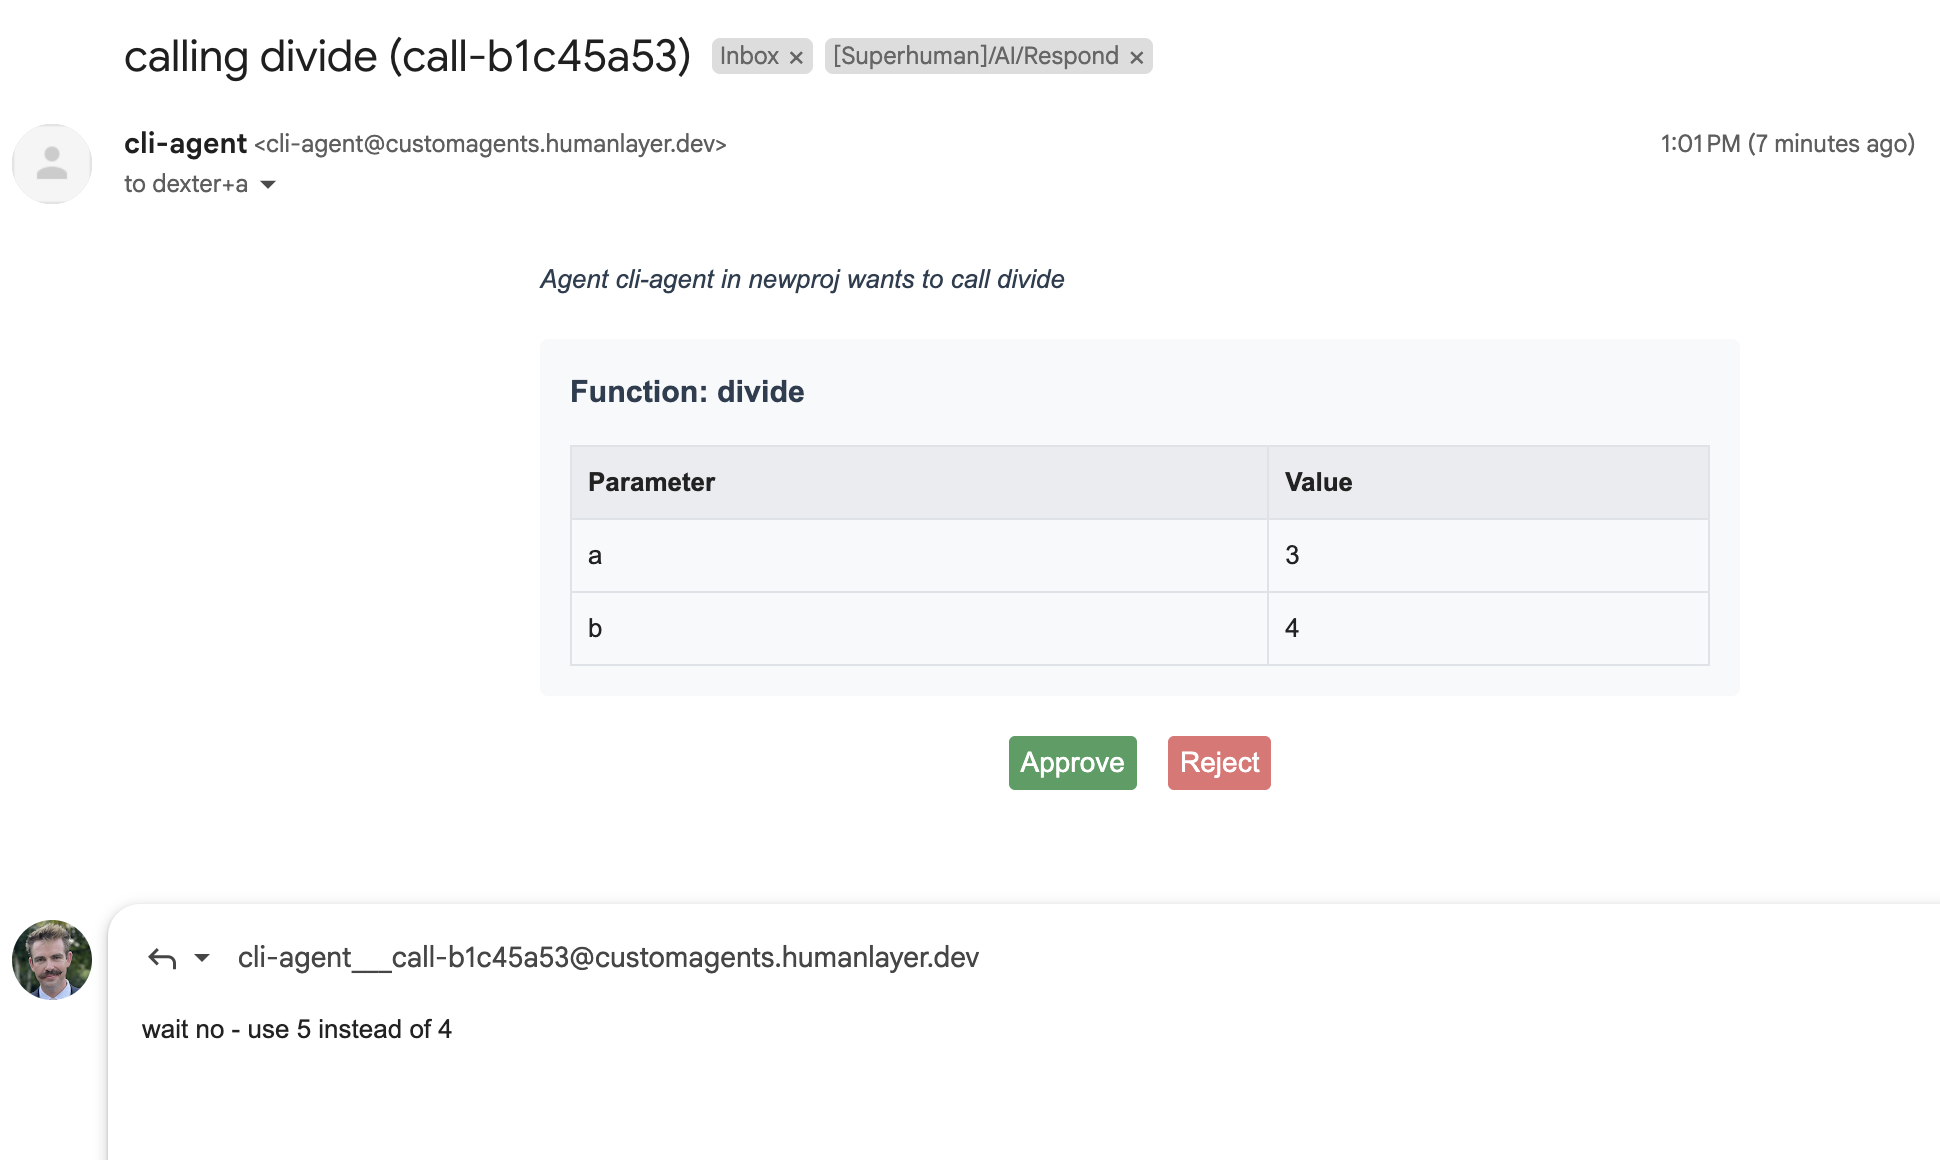
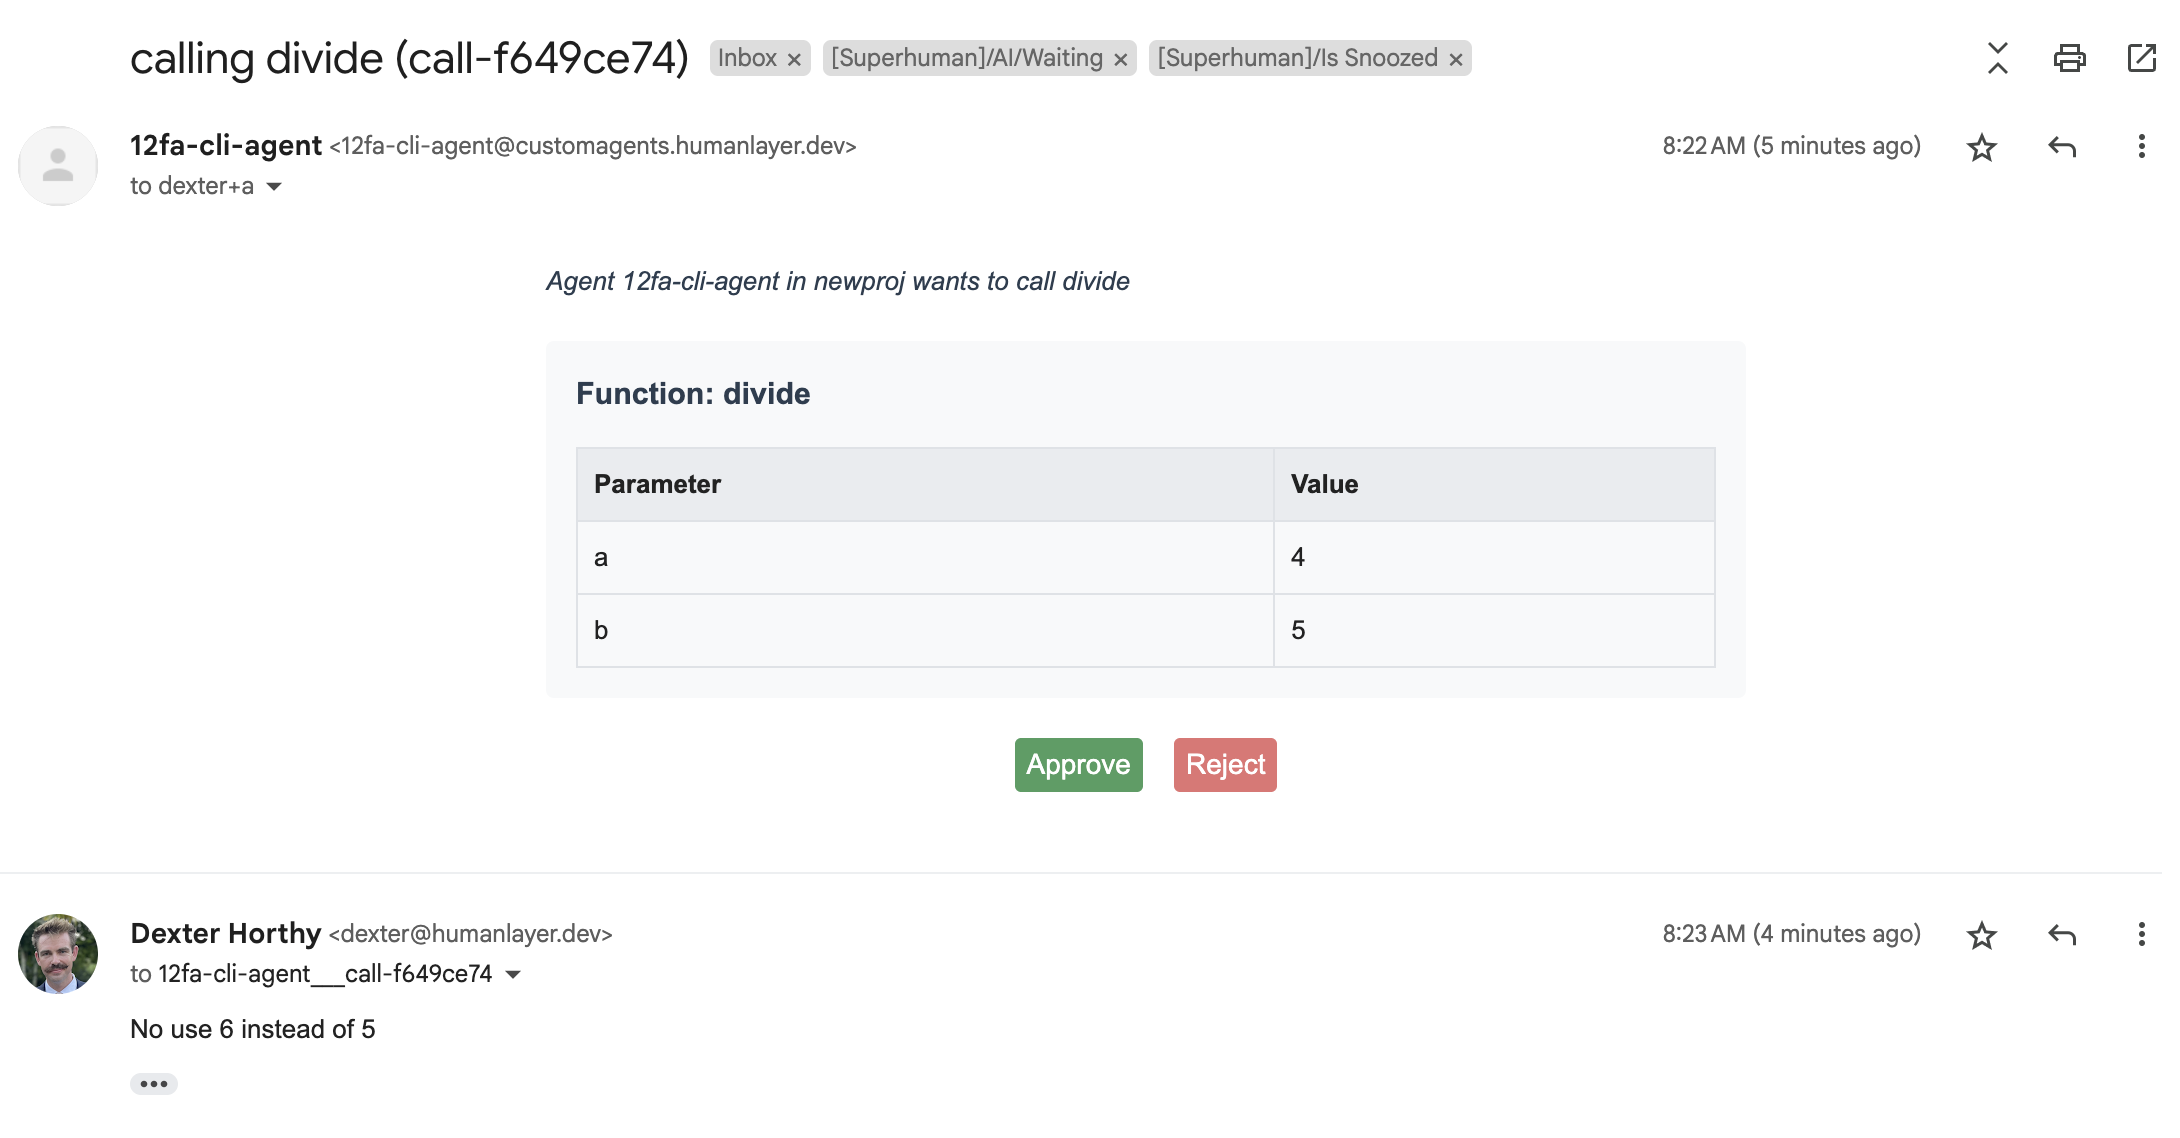
updates to some things

diff --git a/workshops/2025-05/sections/11-humanlayer-approval/src/cli.ts b/workshops/2025-05/sections/11-humanlayer-approval/src/cli.ts
@@ -1,8 +1,7 @@
 // cli.ts lets you invoke the agent loop from the command line
 
+import { humanlayer } from "humanlayer";
 import { agentLoop, Thread, Event } from "../src/agent";
-
-
 
 export async function cli() {
     // Get command line arguments, skipping the first two (node and script name)
@@ -20,23 +19,31 @@ export async function cli() {
     const thread = new Thread([{ type: "user_input", data: message }]);
 
     // Run the agent loop with the thread
-    const result = await agentLoop(thread);
-    let lastEvent = result.events.slice(-1)[0];
+    let newThread = await agentLoop(thread);
+    let lastEvent = newThread.events.slice(-1)[0];
 
-    while (lastEvent.data.intent === "request_more_information") {
-        const message = await askHuman(lastEvent.data.message);
-        thread.events.push({ type: "human_response", data: message });
-        const result = await agentLoop(thread);
-        lastEvent = result.events.slice(-1)[0];
+    while (lastEvent.data.intent !== "done_for_now") {
+        const responseEvent = await askHuman(lastEvent);
+        thread.events.push(responseEvent);
+        newThread = await agentLoop(thread);
+        lastEvent = newThread.events.slice(-1)[0];
     }
 
     // print the final result
-    // optional - you could loop here too
+    // optional - you could loop here too 
     console.log(lastEvent.data.message);
     process.exit(0);
 }
 
-async function askHuman(message: string) {
+async function askHuman(lastEvent: Event): Promise<Event> {
+    if (process.env.HUMANLAYER_API_KEY) {
+        return await askHumanEmail(lastEvent);
+    } else {
+        return await askHumanCLI(lastEvent.data.message);
+    }
+}
+
+async function askHumanCLI(message: string): Promise<Event> {
     const readline = require('readline').createInterface({
         input: process.stdin,
         output: process.stdout
@@ -44,7 +51,66 @@ async function askHuman(message: string) {
 
     return new Promise((resolve) => {
         readline.question(`${message}\n> `, (answer: string) => {
-            resolve(answer);
+            resolve({ type: "human_response", data: answer });
         });
     });
+}
+
+export async function askHumanEmail(lastEvent: Event): Promise<Event> {
+    if (!process.env.HUMANLAYER_EMAIL) {
+        throw new Error("missing or invalid parameters: HUMANLAYER_EMAIL");
+    }
+    const hl = humanlayer({ //reads apiKey from env
+        // name of this agent
+        runId: "12fa-cli-agent",
+        verbose: true,
+        contactChannel: {
+            // agent should request permission via email
+            email: {
+                address: process.env.HUMANLAYER_EMAIL,
+            }
+        }
+    }) 
+
+    if (lastEvent.data.intent === "request_more_information") {
+        // fetch response synchronously - this will block until reply
+        const response = await hl.fetchHumanResponse({
+            spec: {
+                msg: lastEvent.data.message
+            }
+        })
+        return {
+            "type": "tool_response",
+            "data": response
+        }
+    }
+    
+    if (lastEvent.data.intent === "divide") {
+        // fetch approval synchronously - this will block until reply
+        const response = await hl.fetchHumanApproval({
+            spec: {
+                fn: "divide",
+                kwargs: {
+                    a: lastEvent.data.a,
+                    b: lastEvent.data.b
+                }
+            }
+        })
+
+        if (response.approved) {
+            const result = lastEvent.data.a / lastEvent.data.b;
+            console.log("tool_response", result);
+            return {
+                "type": "tool_response",
+                "data": result
+            };
+        } else {
+            return {
+                "type": "tool_response",
+                "data": `user denied operation ${lastEvent.data.intent}
+                with feedback: ${response.comment}`
+            };
+        }
+    }
+    throw new Error(`unknown tool: ${lastEvent.data.intent}`)
 }

diff --git a/workshops/2025-05/walkthrough/11b-cli.ts b/workshops/2025-05/walkthrough/11b-cli.ts
@@ -22,22 +22,15 @@ export async function cli() {
     let newThread = await agentLoop(thread);
     let lastEvent = newThread.events.slice(-1)[0];
 
-    let needsResponse = 
-        newThread.awaitingHumanResponse() ||
-        newThread.awaitingHumanApproval();
-
-    while (needsResponse) {
-        lastEvent = newThread.events.slice(-1)[0];
+    while (lastEvent.data.intent !== "done_for_now") {
         const responseEvent = await askHuman(lastEvent);
         thread.events.push(responseEvent);
         newThread = await agentLoop(thread);
-        // determine if we should loop or if we're done
-        needsResponse = newThread.awaitingHumanResponse() 
-            || newThread.awaitingHumanApproval();
+        lastEvent = newThread.events.slice(-1)[0];
     }
 
     // print the final result
-    // optional - you could loop here too
+    // optional - you could loop here too 
     console.log(lastEvent.data.message);
     process.exit(0);
 }
@@ -63,29 +56,31 @@ async function askHumanCLI(message: string): Promise<Event> {
     });
 }
 
-async function askHumanEmail(lastEvent: Event): Promise<Event> {
+export async function askHumanEmail(lastEvent: Event): Promise<Event> {
     if (!process.env.HUMANLAYER_EMAIL) {
         throw new Error("missing or invalid parameters: HUMANLAYER_EMAIL");
     }
     const hl = humanlayer({ //reads apiKey from env
         // name of this agent
-        runId: "cli-agent",
+        runId: "12fa-cli-agent",
+        verbose: true,
         contactChannel: {
             // agent should request permission via email
             email: {
                 address: process.env.HUMANLAYER_EMAIL,
                 // custom email body - jinja
                 template: `
-                 agent {{ event.run_id }} is requesting approval for {{event.spec.fn}}
-                 with args: {{event.spec.kwargs}}
-                 <br><br>
-                 reply to this email to approve
+                agent {{ event.run_id }} is requesting approval for {{event.spec.fn}}
+                with args: {{event.spec.kwargs}}
+                <br><br>
+                reply to this email to approve
                 `
             }
         }
     }) 
 
     if (lastEvent.data.intent === "request_more_information") {
+        // fetch response synchronously - this will block until reply
         const response = await hl.fetchHumanResponse({
             spec: {
                 msg: lastEvent.data.message
@@ -98,7 +93,7 @@ async function askHumanEmail(lastEvent: Event): Promise<Event> {
     }
     
     if (lastEvent.data.intent === "divide") {
-        // fetch approval synchronously
+        // fetch approval synchronously - this will block until reply
         const response = await hl.fetchHumanApproval({
             spec: {
                 fn: "divide",

diff --git a/workshops/2025-05/walkthrough/11-cli.ts b/workshops/2025-05/walkthrough/11-cli.ts
@@ -22,18 +22,11 @@ export async function cli() {
     let newThread = await agentLoop(thread);
     let lastEvent = newThread.events.slice(-1)[0];
 
-    let needsResponse = 
-        newThread.awaitingHumanResponse() ||
-        newThread.awaitingHumanApproval();
-
-    while (needsResponse) {
-        lastEvent = newThread.events.slice(-1)[0];
+    while (lastEvent.data.intent !== "done_for_now") {
         const responseEvent = await askHuman(lastEvent);
         thread.events.push(responseEvent);
         newThread = await agentLoop(thread);
-        // determine if we should loop or if we're done
-        needsResponse = newThread.awaitingHumanResponse() 
-            || newThread.awaitingHumanApproval();
+        lastEvent = newThread.events.slice(-1)[0];
     }
 
     // print the final result
@@ -69,7 +62,8 @@ export async function askHumanEmail(lastEvent: Event): Promise<Event> {
     }
     const hl = humanlayer({ //reads apiKey from env
         // name of this agent
-        runId: "cli-agent",
+        runId: "12fa-cli-agent",
+        verbose: true,
         contactChannel: {
             // agent should request permission via email
             email: {
@@ -79,6 +73,7 @@ export async function askHumanEmail(lastEvent: Event): Promise<Event> {
     }) 
 
     if (lastEvent.data.intent === "request_more_information") {
+        // fetch response synchronously - this will block until reply
         const response = await hl.fetchHumanResponse({
             spec: {
                 msg: lastEvent.data.message
@@ -91,7 +86,7 @@ export async function askHumanEmail(lastEvent: Event): Promise<Event> {
     }
     
     if (lastEvent.data.intent === "divide") {
-        // fetch approval synchronously
+        // fetch approval synchronously - this will block until reply
         const response = await hl.fetchHumanApproval({
             spec: {
                 fn: "divide",
@@ -112,7 +107,8 @@ export async function askHumanEmail(lastEvent: Event): Promise<Event> {
         } else {
             return {
                 "type": "tool_response",
-                "data": `user denied operation ${lastEvent.data.intent}`
+                "data": `user denied operation ${lastEvent.data.intent}
+                with feedback: ${response.comment}`
             };
         }
     }
